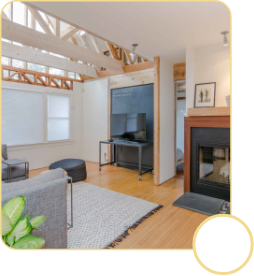
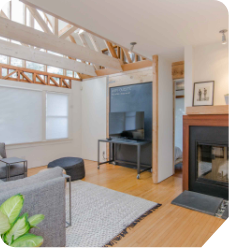
music-10
7,9

diff --git a/Music-Class/Choose-background-music-10/7.html b/Music-Class/Choose-background-music-10/7.html
@@ -66,6 +66,7 @@
                <div class="col-10 d-flex justify-content-around">
                 <div class="col-3">
                     <div class="choose_music_10-img_7 d-flex justify-content-center mb-4vh">
+                        <div class="choose_music_10-circle_7"></div>
                         <img src="../../img/gakvetilebi/Music-class/Choose-background-music-10/music-10-7-1.png" alt="image">
                     </div>
                     <div class="m-auto choose_music_10-img_7_circle d-flex justify-content-center">
@@ -74,6 +75,7 @@
                 </div>
                 <div class="col-3">
                     <div class="choose_music_10-img_7 d-flex justify-content-center mb-4vh">
+                        <div class="choose_music_10-circle_7"></div>
                         <img src="../../img/gakvetilebi/Music-class/Choose-background-music-10/music-10-7-2.png" alt="image">
                     </div>
                     <div class="m-auto choose_music_10-img_7_circle d-flex justify-content-center">
@@ -82,6 +84,7 @@
                 </div>
                 <div class="col-3">
                     <div class="choose_music_10-img_7 d-flex justify-content-center mb-4vh">
+                        <div class="choose_music_10-circle_7"></div>
                         <img src="../../img/gakvetilebi/Music-class/Choose-background-music-10/music-10-7-3.png" alt="image">
                     </div>
                     <div class="m-auto choose_music_10-img_7_circle d-flex justify-content-center">

diff --git a/Music-Class/Choose-background-music-10/9.html b/Music-Class/Choose-background-music-10/9.html
@@ -81,17 +81,16 @@
                 </div>
             </div>
             <div class="row">
-               <div class="col-10 d-flex justify-content-start ml-12vh">
-                <div class="d-flex">
+               <div class="col-7 d-flex justify-content-start ml-12vh">
                     <div class="choose_music_10-img_9 d-flex justify-content-center mb-4vh">
+                        <div class="choose_music_10-circle_9"></div>
                         <img src="../../img/gakvetilebi/Music-class/Choose-background-music-10/music-10-9.png" alt="image">
                     </div>
-                    <div class="col-6 m-auto choose_music_10-img_7_circle d-flex justify-content-between">
+                    <div class="col-4 m-auto choose_music_10-img_7_circle d-flex justify-content-between">
                         <img src="../../img/gakvetilebi/Music-class/Choose-background-music-10/music-10-7-4.svg" alt="image">
                         <img src="../../img/gakvetilebi/Music-class/Choose-background-music-10/music-10-7-5.svg" alt="image">
                         <img src="../../img/gakvetilebi/Music-class/Choose-background-music-10/music-10-7-6.svg" alt="image">
                     </div>
-                </div>
                </div>
             </div>
             <div  class="flex flex-column z-index reload_game_wrapper">

diff --git a/scss/Pages/Music-Class/Choose-background-music-10/_5-9.scss b/scss/Pages/Music-Class/Choose-background-music-10/_5-9.scss
@@ -41,6 +41,20 @@
     }
     &-img_7 {
         height: 35.4vh;
+        max-height: 247px;
+        img {
+            height: 100%;
+        }
+    }
+    &-circle_7 {
+        height: 7.8vh;
+        width: 7.8vh;
+        right: -2.3vh;
+        bottom: 8vh;
+        position:absolute;
+        border: 3px solid #F2DA8E;
+        border-radius: 100%;
+        background-color: white;
     }
     &-img_7_circle {
         height: 7.16vh;
@@ -55,6 +69,20 @@
     }
     &-img_9 {
         height: 39.5vh;
+        max-height: 276px;
+        img {
+            height: 100%;
+        }
+    }
+    &-circle_9 {
+        height: 7.8vh;
+        width: 7.8vh;
+        left: 28.7vh;
+        bottom: 2vh;
+        position:absolute;
+        border: 3px solid #F2DA8E;
+        border-radius: 100%;
+        background-color: white;
     }
     &-title_item {
         margin-bottom: 1.2vh!important;

diff --git a/scss/new-style.css b/scss/new-style.css
@@ -49958,6 +49958,22 @@ img.mfp-img[alt*="cs-3-6-6-img"] {
 
 .choose_music_10-img_7 {
   height: 35.4vh;
+  max-height: 247px;
+}
+
+.choose_music_10-img_7 img {
+  height: 100%;
+}
+
+.choose_music_10-circle_7 {
+  height: 7.8vh;
+  width: 7.8vh;
+  right: -2.3vh;
+  bottom: 8vh;
+  position: absolute;
+  border: 3px solid #F2DA8E;
+  border-radius: 100%;
+  background-color: white;
 }
 
 .choose_music_10-img_7_circle {
@@ -49976,6 +49992,22 @@ img.mfp-img[alt*="cs-3-6-6-img"] {
 
 .choose_music_10-img_9 {
   height: 39.5vh;
+  max-height: 276px;
+}
+
+.choose_music_10-img_9 img {
+  height: 100%;
+}
+
+.choose_music_10-circle_9 {
+  height: 7.8vh;
+  width: 7.8vh;
+  left: 28.7vh;
+  bottom: 2vh;
+  position: absolute;
+  border: 3px solid #F2DA8E;
+  border-radius: 100%;
+  background-color: white;
 }
 
 .choose_music_10-title_item {
